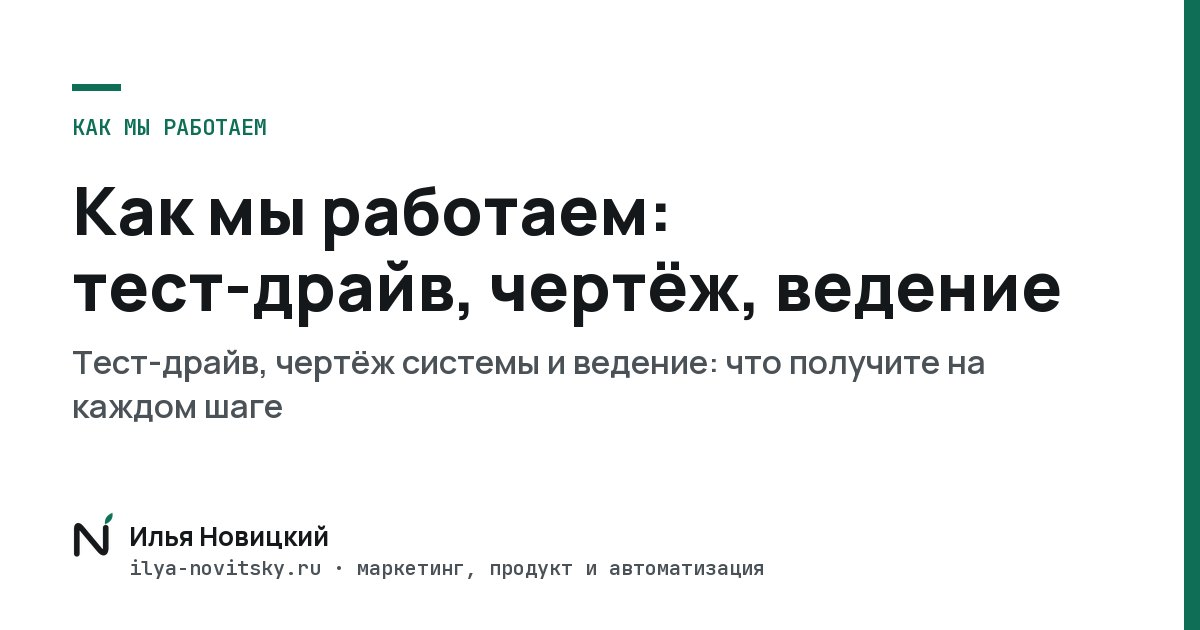
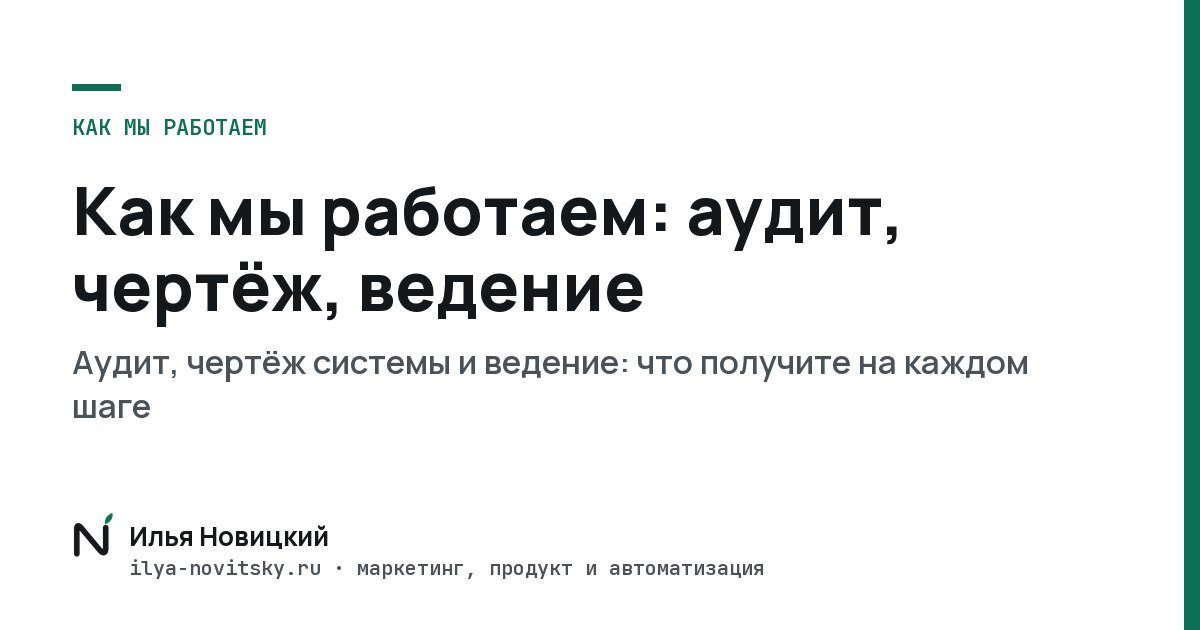
Главная 11/10: аудит вместо тест-драйва, кнопки, без инфобиз-слов (#51)
* Главная до 11/10: «Тест-драйв» → «Аудит и план действий» по всему сайту (тексты, вопросы, оферта, разметка, превью); «Начать с аудита» ведёт к блоку первого шага; без слов инфобизнеса; путь в 5 строк; 7 вопросов; 2 цитаты Крылова; лента без «цифры условные»

* Путь в «Кто я»: трафик и заявки 2018–2020, после первой системы продаж

---------

diff --git a/content/pages/home.ts b/content/pages/home.ts
@@ -16,16 +16,16 @@ export const home = typo({
 		h1: "Один человек вместо отдела маркетинга и пяти подрядчиков",
 		lead: "Сайт, контент, продукт, автоматизация и аналитика у одного специалиста. Не нужно собирать команду и сводить исполнителей между собой.",
 		sub: "Опыт подсказывает, что строить, AI-инструменты помогают собрать это за дни, а не месяцы.",
-		secondary: "Что входит в тест-драйв",
+		secondary: "Написать в Telegram",
 		promise: "Быстрее · Дешевле · Под одну ответственность",
-		// плашка под кнопками (как на кейсах): обещание сверху, три факта о тест-драйве
+		// плашка под кнопками (как на кейсах): обещание сверху, три факта о первом шаге
 		facts: [
-			{ num: T.price, text: "тест-драйв" },
+			{ num: T.price, text: "аудит и план действий" },
 			{ num: T.term, text: "на разбор задачи" },
 			{ num: "Разбор", text: "остаётся у вас" },
 		],
 		feed: {
-			label: "Пример пути от задачи до продаж, цифры условные",
+			label: "Пример пути от задачи до продаж",
 			bar: "от задачи до продаж · пример пути",
 			live: "результат",
 			run: "в работе",
@@ -39,7 +39,7 @@ export const home = typo({
 				{ who: "Автоматизация", task: "Бот, CRM и напоминания **в одной системе**: заявки больше не теряются" },
 				{ who: "Результат", task: "**{{+38 заявок}}** в месяц и **первые {{12 продаж}}** за 30 дней", result: true },
 			],
-			foot: `Пример пути, цифры условные. Разбор за ${T.term}, план за ${P.blueprint.term}, дальше веду сам`,
+			foot: "",
 			more: "Как мы работаем →",
 		},
 	},
@@ -65,7 +65,7 @@ export const home = typo({
 		h2: "За результат отвечает один человек, а не пять подрядчиков",
 		lead: "Маркетинг, продажи и продукт в одних руках. Вот что это меняет для вас.",
 		cards: [
-			{ title: "Отложенное наконец заработает", text: "Не «займёмся после сезона», а первые решения и материалы в работе уже через несколько дней." },
+			{ title: "Задачи сдвинутся с места за дни, а не после сезона", text: "Первые решения и материалы в работе уже через несколько дней, без долгой раскачки и согласований." },
 			{ title: "Перестанете быть связным между подрядчиками", text: "Не пересылать файлы и не объяснять в пятый раз, что вы хотели. Сайт, тексты, бот и аналитика в одних руках." },
 			{ title: "Будете знать, за что платите", text: "Не «работы ведутся», а план и отчёт каждую неделю: что сделано, что изменилось в цифрах и что дальше." },
 			{ title: "Освободите часы, которые съедает рутина", text: "Заявки не теряются, напоминания и отчёты собираются сами. Таблицы проверяет система, а не вы." },
@@ -97,11 +97,10 @@ export const home = typo({
 		h2: "Начинаем с одной задачи, а не с договора на год",
 		lead: "Сначала разбираем одну вашу задачу. После каждого шага у вас остаётся результат, а дальше вы сами решаете, идти ли вперёд.",
 		steps: [
-			{ label: `Шаг 1 · Тест-драйв, разбор задачи · ${T.term}`, title: "Узнаете, где теряете деньги и что делать первым", text: "Берём одну задачу: сайт не продаёт, заявки теряются или непонятно, с чего начать. На руках письменный разбор: что не так, что делать по порядку и сколько стоит следующий шаг.", price: T.price, note: "видите, как я думаю, до больших денег" },
-			{ label: `Шаг 2 · Чертёж, план роста · ${P.blueprint.term}`, title: "Получите план: что делать, в каком порядке и когда окупится", text: "Карта всего, что у вас есть: сайт, контент, путь клиента, CRM. Где утекают деньги, что строить, сколько вложить и когда вернётся. Для нового продукта прототип, который можно показать клиентам.", price: `от ${P.blueprint.price}`, note: "тест-драйв входит в цену, план ваш" },
+			{ label: `Шаг 1 · Аудит и план действий · ${T.term}`, title: "Узнаете, где теряете деньги и что делать первым", text: "Берём одну задачу: сайт не продаёт, заявки теряются или непонятно, с чего начать. На руках письменный разбор: что не так, что делать по порядку и сколько стоит следующий шаг.", price: T.price, note: "видите, как я думаю, до больших денег" },
+			{ label: `Шаг 2 · Чертёж, план роста · ${P.blueprint.term}`, title: "Получите план: что делать, в каком порядке и когда окупится", text: "Карта всего, что у вас есть: сайт, контент, путь клиента, CRM. Где утекают деньги, что строить, сколько вложить и когда вернётся. Для нового продукта прототип, который можно показать клиентам.", price: `от ${P.blueprint.price}`, note: "стоимость аудита входит в цену, план ваш" },
 			{ label: `Шаг 3 · Ведение · от ${P.management.term}`, title: "Строю и веду всё сам, вы видите результат в деньгах", text: "Сайт, контент, путь клиента до оплаты, автоматизация и аналитика по плану. От вас короткие «да» или «поправь», каждую неделю отчёт, раз в месяц итоги в деньгах.", price: `от ${P.management.price}`, unit: "в месяц", note: "без найма отдела и пяти подрядчиков" },
 		],
-		fable: { q: "А ларчик просто открывался", src: "И. А. Крылов, «Ларчик». Часто задача проще, чем кажется, и тест-драйв это показывает" },
 		more: "Что входит в каждый шаг и чего не будет →",
 		after: "Уже есть работающая система? Можно начать сразу с ведения. Одновременно я веду не больше двух проектов, поэтому старт по очереди.",
 	},
@@ -131,12 +130,12 @@ export const home = typo({
 		pillars: [
 			{ label: "Продажи", title: "Сделаю так, чтобы вам платили", big: "17 млн ₽", bl: "за 8 месяцев в клубе по подписке", text: "Путь клиента от первого касания до оплаты, тарифы и продления. В сети салонов такая система помогла вырасти с 3 до 30 филиалов." },
 			{ label: "Продукт", title: "Проверю идею до того, как вы вложите миллионы", big: "+10", bl: "клиенток вернулись к мастеру через GAZE", text: "Основу GAZE собрал один за две недели, она уже работает. С апреля 2026 года у меня четыре своих продукта." },
-			{ label: "Автоматизация", title: "Сниму рутину, чтобы продажи шли без вас", big: "100 тыс ₽", bl: "в неделю приносит автовебинар без участия команды", text: "Боты, CRM, напоминания и оплаты: заявки не теряются, отчёты собираются сами." },
+			{ label: "Автоматизация", title: "Сниму рутину, чтобы продажи шли без вас", big: "100 тыс ₽", bl: "в неделю приносит вебинар в записи, без участия команды", text: "Боты, CRM, напоминания и оплаты: заявки не теряются, отчёты собираются сами." },
 		],
 		note: "Цифры продаж и автоматизации из проектов агентства, результат там общий: мы отвечали за систему, клиенты за продукт, контент и рекламу.",
 		agency: {
 			title: "Я прошёл путь проб и ошибок, чтобы ваш был прямым",
-			mine: { label: "Мой путь · 5 лет агентства и год своих продуктов", marks: [{ t: "десятки запусков" }, { t: "ошибки и переделки", err: true }, { t: "сотни задач по автоматизации" }, { t: "631 успешная сделка за 3,5 года" }, { t: "4 своих продукта" }] },
+			mine: { label: "Мой путь · 10 лет в продажах", marks: [{ t: "десятки систем продаж" }, { t: "ошибки и переделки", err: true }, { t: "сотни задач по автоматизации" }, { t: "631 успешная сделка за 3,5 года" }, { t: "4 своих продукта" }] },
 			yours: { label: "Ваш путь", from: "ваша задача", to: "результат без моих ошибок" },
 			quotesLabel: "Что говорили клиенты",
 		quotes: [
@@ -161,12 +160,10 @@ export const home = typo({
 		],
 		pathLabel: "Мой путь в продажах",
 		path: [
-			{ y: "2016", t: "Товары из Китая", d: "Первые продажи и маркетинг своими руками: сам искал клиентов и считал, что окупается." },
-			{ y: "", t: "Упаковка и сайты", d: "Сайты и подача для бизнесов из разных сфер." },
-			{ y: "", t: "Трафик и заявки", d: "Лидогенерация для разных ниш: откуда приходят клиенты и сколько они стоят. Параллельно изучал онлайн-запуски." },
-			{ y: "2017–2018", t: "Первая автоворонка и запуск", d: "Больше миллиона рублей с первой автоворонки." },
-			{ y: "2019", t: "Своё обучение и трафик для клиентов", d: "Трафик для клиентов из разных ниш." },
-			{ y: "5 лет", t: "Агентство: автоматизация и комплексные проекты", d: "Собрал все навыки в одно: от трафика до оплаты и CRM. 17 млн ₽ за 8 месяцев в одном проекте, рост сети с 3 до 30 филиалов в другом, 631 успешная сделка за последние 3,5 года." },
+			{ y: "2016", t: "Товары, упаковка и сайты", d: "Первые продажи своими руками, потом сайты и подача для бизнесов из разных сфер." },
+			{ y: "2017–2018", t: "Первая система продаж", d: "Больше миллиона рублей с системы, которая продавала без менеджера." },
+			{ y: "2018–2020", t: "Трафик и заявки", d: "Приводил заявки бизнесам из разных ниш и считал, сколько стоит каждый клиент." },
+			{ y: "5 лет", t: "Агентство: системы продаж и автоматизация", d: "Собрал все навыки в одно: от рекламы до оплаты и CRM. 17 млн ₽ за 8 месяцев в одном проекте, рост сети с 3 до 30 филиалов в другом, 631 успешная сделка за последние 3,5 года." },
 			{ y: "2026", t: "Свои продукты на AI", d: "Четыре продукта с апреля, основа GAZE за две недели. Весь этот опыт теперь работает на ваш бизнес." },
 		],
 		pathOut: "Поэтому смотрю на ваш бизнес целиком: что продаёте, где берёте клиентов, как не теряете их по дороге и что можно автоматизировать.",
@@ -180,7 +177,7 @@ export const home = typo({
 		lead: "Беру только задачи, где могу дать результат. Если узнаете себя во втором списке, скажу об этом сразу и сэкономлю вам время и деньги.",
 		yesTitle: "Подойду, если",
 		yes: [
-			{ b: "Маркетинг держится на вас", t: "или на разных подрядчиках, которые не связаны между собой" },
+			{ b: "Маркетинг держится на вас", t: "или на разных исполнителях, которые не связаны между собой" },
 			{ b: "Нужен директор, но не нужен штат", t: "без зарплаты, налогов и команды под него" },
 			{ b: "Есть идея, но страшно вкладываться", t: "проверим её до больших денег" },
 			{ b: "Нужен один ответственный", t: "за весь результат, а не за свой кусок" },
@@ -208,7 +205,7 @@ export const home = typo({
 		steps: [
 			{ b: "Пишете пару строк", t: "в Telegram или MAX: что хотите сделать и какой бюджет закладываете." },
 			{ b: "Отвечаю в течение рабочего дня.", t: "Если задача подходит, созваниваемся на 20 минут." },
-			{ b: "Начинаем с тест-драйва.", t: `Это ${T.term} и ${T.price}, а разбор остаётся у вас.` },
+			{ b: "Начинаем с аудита и плана действий.", t: `Это ${T.term} и ${T.price}, а разбор остаётся у вас.` },
 		],
 		under: "@Ilya_novator · Telegram и MAX",
 		chat: {

diff --git a/content/pages/common.ts b/content/pages/common.ts
@@ -24,7 +24,7 @@ export const common = typo({
 	ui: {
 		home: "Главная",
 		blog: "Блог",
-		headerStart: "Начать с одной задачи",
+		headerStart: "Написать в Telegram",
 		headerShort: "Написать",
 		menu: "Меню",
 		channel: "Канал",
@@ -35,7 +35,7 @@ export const common = typo({
 	},
 
 	buttons: {
-		start: "Начать с одной задачи",
+		start: "Начать с аудита",
 		telegram: "Написать в Telegram",
 		max: "Написать в MAX",
 	},
@@ -44,10 +44,10 @@ export const common = typo({
 		h3: "Не знаете, с чего начать?",
 		sub: "Выберите свою ситуацию, и я подскажу, с какого шага начать. Цены шагов выше.",
 		options: [
-			{ q: "Заявок мало, или они теряются по дороге", a: `**Тест-драйв.** Найду, где уходят клиенты и деньги, и скажу, что чинить первым.` },
-			{ q: "Подрядчиков несколько, а результата нет", a: `**Тест-драйв.** Разберу, что из сделанного приносит деньги, а что нет, и что делать дальше.` },
-			{ q: "Есть идея продукта, но страшно вкладываться", a: `**Тест-драйв.** Разберём, стоит ли её строить, для кого и на чём она заработает, до того как тратить на разработку.` },
-			{ q: "Хочу навести порядок во всём и расти", a: `**Чертёж, план роста.** Что есть, где утекают деньги, что делать по порядку и когда окупится. Сомневаетесь? Начните с тест-драйва, его стоимость войдёт в цену плана.` },
+			{ q: "Заявок мало, или они теряются по дороге", a: `**Аудит и план действий.** Найду, где уходят клиенты и деньги, и скажу, что чинить первым.` },
+			{ q: "Подрядчиков несколько, а результата нет", a: `**Аудит и план действий.** Разберу, что из сделанного приносит деньги, а что нет, и что делать дальше.` },
+			{ q: "Есть идея продукта, но страшно вкладываться", a: `**Аудит и план действий.** Разберём, стоит ли её строить, для кого и на чём она заработает, до того как тратить на разработку.` },
+			{ q: "Хочу навести порядок во всём и расти", a: `**Чертёж, план роста.** Что есть, где утекают деньги, что делать по порядку и когда окупится. Сомневаетесь? Начните с аудита, его стоимость войдёт в цену чертежа.` },
 			{ q: "Всё работает, но вести это некому", a: `**Ведение.** Беру систему на себя: каждую неделю план и отчёт, раз в месяц итоги в деньгах.` },
 		],
 		mentor: { q: "Хочу собрать продукт сам", a: `**Наставничество, ${P.mentor.price} в месяц.** Проведу по шагам, а собираете вы сами.`, under: "один на один, ваш проект", button: "Страница «Наставничество» →" },
@@ -76,7 +76,7 @@ export const common = typo({
 		crumb: "Документы",
 		edition: "Редакция от 13.10.2026.",
 		docs: [
-			{ slug: "offer", title: "Публичная оферта на оказание услуг", description: "Условия оказания услуг Ильи Новицкого: тест-драйв, чертёж системы, ведение и наставничество. Цены, порядок оплаты, возврат и ответственность." },
+			{ slug: "offer", title: "Публичная оферта на оказание услуг", description: "Условия оказания услуг Ильи Новицкого: аудит и план действий, чертёж системы, ведение и наставничество. Цены, порядок оплаты, возврат и ответственность." },
 			{ slug: "privacy", title: "Политика обработки персональных данных", description: "Какие данные собирает сайт ilya-novitsky.ru, зачем, где они хранятся, сколько и как их защищают. Права посетителя и контакты для запросов." },
 			{ slug: "consent", title: "Согласие на обработку персональных данных", description: "Согласие посетителя сайта ilya-novitsky.ru на обработку данных для статистики посещений: какие данные, цель, срок и как отозвать." },
 		],

diff --git a/content/pages/faq.ts b/content/pages/faq.ts
@@ -4,14 +4,11 @@ import { typo } from "@/lib/typo";
 import { prices as P } from "@/config/prices";
 
 export const faq = typo([
-	{ q: "Почему тест-драйв платный?", a: `**Потому что это настоящая работа, а не презентация.** Я разбираюсь в вашем бизнесе и отдаю письменный разбор. Он остаётся у вас, даже если дальше не пойдём, а если пойдёте, его стоимость войдёт в цену плана.` },
+	{ q: "Почему аудит платный?", a: `**Потому что это настоящая работа, а не презентация.** Я разбираюсь в вашем бизнесе и отдаю письменный разбор. Он остаётся у вас, даже если дальше не пойдём, а если пойдёте, его стоимость войдёт в цену плана.` },
 	{ q: "А если результата не будет?", a: "**Вы платите по шагам и рискуете только одним шагом.** Работаем по договору или оферте. За следующий шаг платите только после того, как увидели результат предыдущего." },
 	{ q: "Вы работаете один. Что если с вами что-то случится?", a: "**Всё, что мы делаем, остаётся у вас.** Документы, прототипы, код и доступы, плюс каждую неделю план и отчёт. Проект не держится в одной голове." },
-	{ q: "Сколько времени это займёт у меня?", a: "**Немного.** На тест-драйв нужен один разговор и ответы на вопросы. Дальше от вас короткие «да» или «поправь»." },
+	{ q: "Сколько времени это займёт у меня?", a: "**Немного.** На аудит нужен один разговор и ответы на вопросы. Дальше от вас короткие «да» или «поправь»." },
 	{ q: "Почему не нанять директора по маркетингу?", a: "**Директор стоит дороже и сам обычно не делает.** Ему нужна команда, а вам придётся платить и проверять всех. Здесь думает и делает один человек, один платёж в месяц." },
-	{ q: "Сколько я на этом сэкономлю?", a: "**Посчитаем на тест-драйве.** Сколько процесс стоит сейчас с учётом зарплат, подрядчиков и вашего времени, и сколько будет после. Если экономии нет, так и скажу." },
-	{ q: "От чего зависит цена ведения?", a: `**От объёма работы.** Ведение стоит от ${P.management.price} в месяц, точную цифру назову после плана, когда виден весь объём.` },
-	{ q: "Вы ведёте рекламу?", a: "**Нет, рекламу ведёте вы или ваш специалист.** Я готовлю всё, от чего зависит, окупится ли она: сайт, путь клиента и аналитику." },
-	{ q: "Сейчас все собирают с AI. Может, я сам?", a: "**Для простых вещей да.** Сложно не собрать, а собрать нужное и довести до денег. Хотите делать сами, но с опорой, для этого есть [наставничество](/nastavnichestvo)." },
-	{ q: "Мне точно нужен AI?", a: "**Не всегда.** Иногда достаточно навести порядок в процессе или поправить сайт. AI ставлю туда, где он окупается, подробнее в [блоке «Почему быстро»](#system)." },
+	{ q: "Сколько я на этом сэкономлю?", a: "**Посчитаем на аудите.** Сколько процесс стоит сейчас с учётом зарплат, подрядчиков и вашего времени, и сколько будет после. Если экономии нет, так и скажу." },
+	{ q: "Сейчас все делают с AI. Может, я сам?", a: "**Для простых вещей да.** Сложно не собрать, а собрать нужное и довести до денег. И AI нужен не всегда: иногда хватает навести порядок в процессе или поправить сайт. Хотите делать сами, но с опорой, для этого есть [наставничество](/nastavnichestvo)." },
 ]);

diff --git a/content/pages/kak-my-rabotaem.ts b/content/pages/kak-my-rabotaem.ts
@@ -6,8 +6,8 @@ type Card = { label: string; text?: string; ticks?: string[]; steps?: { b: strin
 
 const steps: { id: string; title: string; meta: string; lead: string; cards: Card[]; price: string; alt: boolean }[] = [
 	{
-		id: "test-drive", title: "Тест-драйв", meta: `${P.testDrive.term} · ${P.testDrive.price}`, alt: true,
-		lead: "По сути это аудит одной задачи. Быстрый и недорогой способ понять, что делать, и заодно проверить, подходим ли мы друг другу, ещё до больших денег.",
+		id: "test-drive", title: "Аудит и план действий", meta: `${P.testDrive.term} · ${P.testDrive.price}`, alt: true,
+		lead: "Разбираем одну вашу задачу и отдаём план действий. Быстрый и недорогой способ понять, что делать, и заодно проверить, подходим ли мы друг другу, ещё до больших денег.",
 		cards: [
 			{ label: "Кому подойдёт", text: "Есть одна задача, которая мешает больше всего, и непонятно, с чего начать: идея продукта, сайт, который не продаёт, заявки, которые теряются, или желание что-то автоматизировать без понимания, что именно." },
 			{ label: "Что получите на руках: письменный разбор", ticks: ["что происходит сейчас и почему;", "где теряются клиенты или деньги, с цифрами, если они есть;", "что делать первым, вторым, третьим, и что можно не делать вовсе;", "где AI даст скорость или экономию, а где он не нужен;", "оценка следующего шага: сроки и бюджет."] },
@@ -29,7 +29,7 @@ const steps: { id: string; title: string; meta: string; lead: string; cards: Car
 			{ label: "Что это даёт", text: "Вы строите проверенное, а не то, что однажды показалось хорошей идеей, и любая разработка выходит дешевле, потому что заранее понятно, что именно строить. Без сюрпризов.", gives: true },
 			{ label: "Чего не будет", crosses: ["на этом этапе не пишу код и не запускаю рекламу;", "не привязываю к себе: чертёж ваш, строить по нему можно с кем угодно."] },
 		],
-		price: `**Цена.** От ${P.blueprint.price}, точная сумма зависит от объёма и называется до старта. Стоимость тест-драйва входит в чертёж, а половина чертежа засчитывается в первый месяц ведения.`,
+		price: `**Цена.** От ${P.blueprint.price}, точная сумма зависит от объёма и называется до старта. Стоимость аудита входит в чертёж, а половина чертежа засчитывается в первый месяц ведения.`,
 	},
 	{
 		id: "vedenie", title: "Ведение", meta: `от ${P.management.term} · от ${P.management.price} в месяц`, alt: true,
@@ -48,7 +48,7 @@ const steps: { id: string; title: string; meta: string; lead: string; cards: Car
 
 export const process = typo({
 	meta: {
-		title: "Как мы работаем: тест-драйв, чертёж, ведение",
+		title: "Как мы работаем: аудит, чертёж, ведение",
 		description: `Три шага работы: аудит одной задачи за ${P.testDrive.term}, чертёж системы с прототипом за ${P.blueprint.term} и ведение. Что получите, как проходит, цена и чего не будет.`,
 	},
 	hero: {
@@ -56,7 +56,7 @@ export const process = typo({
 		h1: "Как мы работаем",
 		lead: "Три шага. Каждый заканчивается результатом, который остаётся у вас, и после каждого вы сами решаете, идти ли дальше. Оплата по этапам: за следующий шаг платите, только когда увидели результат предыдущего.",
 		toc: [
-			{ href: "#test-drive", label: "1. Тест-драйв" },
+			{ href: "#test-drive", label: "1. Аудит и план действий" },
 			{ href: "#chertezh", label: "2. Чертёж системы" },
 			{ href: "#vedenie", label: "3. Ведение" },
 			{ href: "#scope", label: "Что можно поручить" },

diff --git a/src/components/home/Hero.tsx b/src/components/home/Hero.tsx
@@ -4,7 +4,7 @@ import { site } from "@/config/site";
 import { home } from "@content/pages/home";
 import { common } from "@content/pages/common";
 
-// Первый экран: позиция, обещание, две кнопки, плашка тест-драйва; справа — лента «от задачи до продаж» (пример пути).
+// Первый экран: позиция, обещание, две кнопки, плашка первого шага; справа — лента «от задачи до продаж» (пример пути).
 export default function Hero() {
 	const c = home.hero;
 	const f = c.feed;
@@ -20,8 +20,8 @@ export default function Hero() {
 						<p className="lead">{c.lead}</p>
 						<p className="hsub">{c.sub}</p>
 						<div className="cta-row">
-							<a className="btn p" href={site.contacts.telegram} target="_blank" rel="noopener" data-goal="cta_start">{common.buttons.start}</a>
-							<a className="btn s" href="/kak-my-rabotaem#test-drive">{c.secondary}</a>
+							<a className="btn p" href="#how" data-goal="cta_start">{common.buttons.start}</a>
+							<a className="btn s" href={site.contacts.telegram} target="_blank" rel="noopener">{c.secondary}</a>
 						</div>
 						<div className="past hero-plate">
 							<p className="past-t">{c.promise}</p>
@@ -33,7 +33,7 @@ export default function Hero() {
 						<ul className="df-list">
 							{f.rows.map((r) => <li key={r.who} className={"result" in r ? "df-result" : undefined}><span className="df-who">{r.who}</span><span className="df-task"><Rich t={r.task} /></span><span className="df-st"></span><i className="df-prog"></i></li>)}
 						</ul>
-						<div className="df-foot"><span>{f.foot}</span><a href="/kak-my-rabotaem">{f.more}</a></div>
+						<div className="df-foot">{f.foot && <span>{f.foot}</span>}<a href="/kak-my-rabotaem">{f.more}</a></div>
 					</div>
 				</div>
 			</section>

diff --git a/content/pages/keisy.ts b/content/pages/keisy.ts
@@ -21,7 +21,7 @@ export const keisy = typo({
 			],
 			note: "Результат общий: на нас система, на клиентах продукт, контент и реклама.",
 		},
-		button: "Начать с одной задачи",
+		button: "Начать с аудита",
 		viz: {
 			label: "Схема: продукт и продажи вместе дают деньги бизнесу",
 			flows: [
@@ -106,7 +106,7 @@ export const keisy = typo({
 	contact: {
 		h2: "Разберу вашу задачу тем же методом",
 		lead: `За ${P.testDrive.term} станет ясно, что строить, для кого и на чём вы заработаете. Если продукт уже есть, увидим, где он теряет деньги и что исправить первым. Разбор останется у вас, даже если дальше мы не пойдём.`,
-		button: "Начать с одной задачи",
-		under: `Тест-драйв: ${P.testDrive.price} · ${P.testDrive.term} · письменный разбор`,
+		button: "Написать в Telegram",
+		under: `Аудит и план действий: ${P.testDrive.price} · ${P.testDrive.term} · письменный разбор`,
 	},
 });

diff --git a/src/components/layout/Header.tsx b/src/components/layout/Header.tsx
@@ -5,7 +5,7 @@ import { site } from "@/config/site";
 import { common } from "@content/pages/common";
 import BrandMark from "@/components/ui/BrandMark";
 
-// Шапка: значок и имя, три пункта меню, кнопка «Начать с одной задачи»; на телефоне — «Написать» и меню.
+// Шапка: значок и имя, три пункта меню, кнопка «Написать в Telegram»; на телефоне — «Написать» и меню.
 // На телефоне и планшете при прокрутке вниз уезжает, при прокрутке вверх возвращается (решение Ильи 13.10: мешала читать).
 export default function Header() {
 	const [open, setOpen] = useState(false);
@@ -37,7 +37,7 @@ export default function Header() {
 					))}
 				</nav>
 				<div className="cta-row">
-					<a className="btn p" href={site.contacts.telegram} target="_blank" rel="noopener" data-goal="cta_start">
+					<a className="btn p" href={site.contacts.telegram} target="_blank" rel="noopener" >
 						<span className="full">{common.ui.headerStart}</span>
 						<span className="short">{common.ui.headerShort}</span>
 					</a>

diff --git a/src/components/home/Process.tsx b/src/components/home/Process.tsx
@@ -1,7 +1,6 @@
 import StepPicker from "./StepPicker";
 import { home } from "@content/pages/home";
 import SectionHead from "@/components/ui/SectionHead";
-import Fable from "@/components/ui/Fable";
 
 // 04 · как работаем (вопрос собственника «как это будет, не потеряю ли контроль?»): три шага по строке, подробности — на /kak-my-rabotaem; подбор шага.
 export default function Process() {
@@ -22,7 +21,6 @@ export default function Process() {
 				</div>
 				<p className="more-link"><a href="/kak-my-rabotaem">{c.more}</a></p>
 				<p className="after">{c.after}</p>
-				<Fable q={c.fable.q} src={c.fable.src} />
 				<StepPicker />
 			</div>
 		</section>

diff --git a/src/config/goals.ts b/src/config/goals.ts
@@ -1,7 +1,7 @@
 // Цели Яндекс Метрики (решение 15.5 от 08.10 + MAX от 13.10).
 export const goals = {
 	readToCases: "home_read_cases", // дочитал главную до кейсов
-	ctaStart: "cta_start", // нажал «Начать с одной задачи»
+	ctaStart: "cta_start", // нажал «Начать с аудита» (ведёт к блоку «Как работаем») или «Написать» на первом экране
 	telegram: "telegram", // перешёл в Telegram (главная цифра)
 	max: "max", // перешёл в MAX
 	pickStep: "pick_step", // выбрал вариант в подборе шага (параметр variant)

diff --git a/src/styles/base.css b/src/styles/base.css
@@ -1171,3 +1171,4 @@ footer .fmark{margin:0 0 14px}
 .fh{margin:0 0 4px;font:600 12px/1 var(--m);letter-spacing:.08em;text-transform:uppercase;color:var(--mut)}
 footer .partners.compact{margin:32px 0 0;padding:20px 0 0;border-top:1px solid var(--line)}
 .fbottom{display:flex;flex-wrap:wrap;justify-content:space-between;gap:8px 24px;margin-top:20px;padding-top:18px;border-top:1px solid var(--line);font-size:13px;color:var(--mut)}
+html{scroll-behavior:smooth}section[id]{scroll-margin-top:64px}@media(prefers-reduced-motion:reduce){html{scroll-behavior:auto}}

diff --git a/src/components/cases/Hero.tsx b/src/components/cases/Hero.tsx
@@ -17,7 +17,7 @@ export default function Hero() {
 						<div className="past-n">{c.past.nums.map((n) => <div key={n.num}><b>{n.num}</b><span>{n.text}</span></div>)}</div>
 						<p className="past-note">{c.past.note}</p>
 					</div>
-					<a className="btn p" href={site.contacts.telegram} target="_blank" rel="noopener" data-goal="cta_start">{c.button}</a>
+					<a className="btn p" href="/#how" data-goal="cta_start">{c.button}</a>
 				</div>
 				<div className="result-viz" aria-label={c.viz.label}>
 					{c.viz.flows.map((f) => (

diff --git a/src/lib/seo.ts b/src/lib/seo.ts
@@ -56,7 +56,7 @@ export function servicesLd() {
 		hasOfferCatalog: {
 			"@type": "OfferCatalog", name: "Шаги работы",
 			itemListElement: [
-				offer("Тест-драйв", prices.testDrive.price),
+				offer("Аудит и план действий", prices.testDrive.price),
 				offer("Чертёж системы", prices.blueprint.price),
 				offer("Ведение", prices.management.price, "месяц"),
 				offer("Наставничество", prices.mentor.price, "месяц"),
